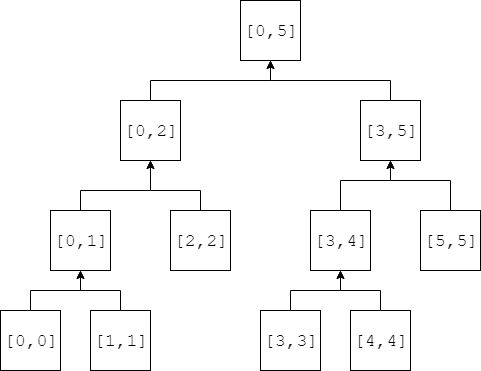
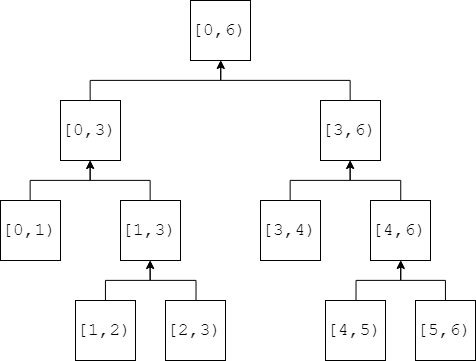
update datastructure docs, and rewrite source code

diff --git a/src/DataStructure/SegmentTree.cpp b/src/DataStructure/SegmentTree.cpp
@@ -1,74 +1,66 @@
 #include "SegmentTree.h"
-#include <algorithm>
-#include <assert.h>
-#ifndef MAX
-#define MAX 64
-#endif
+#include <cassert>
 
-static int SegmentTreeInitRec(SegNode *t, int root, int s[MAX], int start,
-                              int end) {
-  if (start == end) {
-    t->left[root] = start;
+#define left_child(x) (2 * (x) + 1)
+#define right_child(x) (2 * (x) + 2)
+#define father(x) (((x)-1) / 2)
+
+static int SegmentTreeNewRec(SegNode *t, int s[MAX], int root, int beg,
+                             int end) {
+  if (end == beg + 1) {
+    t->left[root] = beg;
     t->right[root] = end;
-    t->sum[root] = s[start];
+    t->sum[root] = s[beg];
     return t->sum[root];
   }
 
-  int mid = (start + end) / 2;
-  int left_sum = SegmentTreeInitRec(t, LEFT_CHILD(root), s, start, mid);
-  int right_sum = SegmentTreeInitRec(t, RIGHT_CHILD(root), s, mid + 1, end);
-  t->left[root] = start;
+  int mid = (beg + end) / 2;
+  t->left[root] = beg;
   t->right[root] = end;
-  t->sum[root] = left_sum + right_sum;
+  t->sum[root] = SegmentTreeNewRec(t, s, left_child(root), beg, mid) +
+                 SegmentTreeNewRec(t, s, right_child(root), mid, end);
   return t->sum[root];
 }
 
-static void SegmentTreeAddRec(SegNode *t, int root, int index, int v) {
-  if (t->left[root] > index || t->right[root] < index) {
+static void SegmentTreeModifyRec(SegNode *t, int root, int i, int v) {
+  if (t->left[root] > i || t->right[root] <= i) {
     return;
   }
 
-  assert(t->left[root] <= index);
-  assert(t->right[root] >= index);
+  assert(t->left[root] <= i);
+  assert(t->right[root] > i);
   t->sum[root] += v;
-
-  if (t->left[root] == t->right[root]) {
-    return;
-  }
-  SegmentTreeAddRec(t, LEFT_CHILD(root), index, v);
-  SegmentTreeAddRec(t, RIGHT_CHILD(root), index, v);
+  SegmentTreeModifyRec(t, left_child(root), i, v);
+  SegmentTreeModifyRec(t, right_child(root), i, v);
 }
 
-static int SegmentTreeQueryRec(SegNode *t, int root, int start, int end) {
+static int SegmentTreeQueryRec(SegNode *t, int root, int beg, int end) {
   int mid = (t->left[root] + t->right[root]) / 2;
-  if (t->left[root] >= start && t->right[root] <= end) {
+  if (t->left[root] == beg && t->right[root] == end) {
     return t->sum[root];
   } else if (end <= mid) {
-    return SegmentTreeQueryRec(t, LEFT_CHILD(root), start, end);
-  } else if (start >= mid + 1) {
-    return SegmentTreeQueryRec(t, RIGHT_CHILD(root), start, end);
+    return SegmentTreeQueryRec(t, left_child(root), beg, end);
+  } else if (beg >= mid) {
+    return SegmentTreeQueryRec(t, right_child(root), beg, end);
   } else {
-    return SegmentTreeQueryRec(t, LEFT_CHILD(root), start, mid) +
-           SegmentTreeQueryRec(t, RIGHT_CHILD(root), mid + 1, end);
+    return SegmentTreeQueryRec(t, left_child(root), beg, mid) +
+           SegmentTreeQueryRec(t, right_child(root), mid, end);
   }
 }
 
-SegNode *SegmentTreeNew(int s[MAX], int start, int end) {
+SegNode *SegmentTreeNew(int s[MAX], int beg, int end) {
   SegNode *t = new SegNode();
-  if (!t) {
-    return NULL;
-  }
-  SegmentTreeInitRec(t, 0, s, start, end);
+  SegmentTreeNewRec(t, s, 0, beg, end);
   return t;
 }
 
 void SegmentTreeFree(SegNode *t) { delete t; }
 
-void SegmentTreeAdd(SegNode *t, int index, int value) {
-  SegmentTreeAddRec(t, 0, index, value);
+void SegmentTreeModify(SegNode *t, int i, int value) {
+  SegmentTreeModifyRec(t, 0, i, value);
 }
 
-int SegmentTreeQuery(SegNode *t, int start, int end) {
-  return SegmentTreeQueryRec(t, 0, start, end);
+int SegmentTreeQuery(SegNode *t, int beg, int end) {
+  return SegmentTreeQueryRec(t, 0, beg, end);
 }
 

diff --git a/src/DataStructure/SegmentTreeTest.cpp b/src/DataStructure/SegmentTreeTest.cpp
@@ -1,32 +1,32 @@
 #include "SegmentTree.h"
-#include <assert.h>
+#include <cassert>
+#include <cstdlib>
 #include <iostream>
 using namespace std;
 
-#define TEST_MAX 1024
+#define TEST_MAX 128
 
 int main() {
-  int s[MAX];
-  for (int i = 0; i < MAX; i++) {
+  int s[TEST_MAX];
+  for (int i = 0; i < TEST_MAX; i++) {
     s[i] = i;
   }
-  for (int i = 0; i < MAX; i++) {
-    SegNode *t = SegmentTreeNew(s, 0, MAX - 1);
-    for (int j = 0; j < MAX; j++) {
-      int sum = 0;
-      SegmentTreeAdd(t, j, j);
-      for (int k = 0; k < MAX; k++) {
-        sum += k;
-        if (k < j) {
-          assert(SegmentTreeQuery(t, 0, k) == sum);
-        } else {
-          assert(SegmentTreeQuery(t, 0, k) == sum + j);
+  for (int i = 1; i < TEST_MAX; i++) {
+    SegNode *t = SegmentTreeNew(s, 0, i);
+    for (int j = 0; j < i; j++) {
+      int r = rand() % MAX;
+      SegmentTreeModify(t, j, r);
+      s[j] += r;
+      for (int p = 0; p <= i; p++) {
+        int sum = 0;
+        for (int q = 0; q < p; q++) {
+          sum += s[q];
         }
-      }
-      SegmentTreeAdd(t, j, -j);
-    }
+        assert(sum == SegmentTreeQuery(t, 0, p));
+      } // for
+    }   // for
     SegmentTreeFree(t);
-  }
+  } // for
 
   return 0;
 }

diff --git a/src/DataStructure/SegmentTree.h b/src/DataStructure/SegmentTree.h
@@ -1,30 +1,23 @@
 #pragma once
-
-#include <algorithm>
-#include <assert.h>
 #ifndef MAX
-#define MAX 64
+#define MAX 1024
 #endif
 
-#define LEFT_CHILD(x) (2 * (x) + 1)
-#define RIGHT_CHILD(x) (2 * (x) + 2)
-#define FATHER(x) (((x)-1) / 2)
-
 struct SegNode {
-  int left[MAX * 3];
-  int right[MAX * 3];
-  int sum[MAX * 3];
+  int left[MAX];
+  int right[MAX];
+  int sum[MAX];
 };
 
-// create segment tree
-SegNode *SegmentTreeNew(int s[MAX], int start, int end);
+// create s[beg, end)
+SegNode *SegmentTreeNew(int s[MAX], int beg, int end);
 
-// free segment tree
+// free s[beg, end)
 void SegmentTreeFree(SegNode *t);
 
-// add value to segment tree
-void SegmentTreeAdd(SegNode *t, int index, int value);
+// modify s[i] += value
+void SegmentTreeModify(SegNode *t, int i, int value);
 
-// query segment tree
-int SegmentTreeQuery(SegNode *t, int start, int end);
+// query s[beg, end)
+int SegmentTreeQuery(SegNode *t, int beg, int end);
 

diff --git a/docs/DataStructure/LeftistTree/README.md b/docs/DataStructure/LeftistTree/README.md
@@ -4,31 +4,27 @@
 
 --------
 
-#### 描述
+#### 左偏树
 
-左偏树是一种接近于堆的二叉树，它的根节点总是树中的最小值或最大值。与堆不同的是，两个堆的合并需要遍历被合并的堆中所有元素，依次插入另一个堆中，而左偏树可以支持更快速的合并操作。本问题只考虑根节点为最小值情况的左偏树。
+左偏树是一种类似小根堆的二叉树，它的根节点总是树中的最小值。与堆不同的是，合并两个数量为$$ n $$的堆的时间复杂度为$$ O(n \times log_2 n) $$，因为合并两个堆需要从其中一个取出元素加入另一个，重复$$ n $$次，每次取出/加入操作的时间复杂度为$$ O(log_2 n) $$。
 
-左偏树的主要操作有$$ (1) $$合并两个左偏树；$$ (2) $$插入新节点；$$ (3) $$查找最值；$$ (4) $$删除最值。其中$$ (2) - (4) $$的实现依赖于$$ (1) $$，合并操作是左偏树的核心。
+左偏树的主要操作有：$$ (1) $$合并两个左偏树；$$ (2) $$插入新节点；$$ (3) $$查找最值；$$ (4) $$删除最值。其中$$ (2) - (4) $$的实现依赖于$$ (1) $$，合并操作是左偏树的核心。
 
-定义左偏树中一个节点的距离$$ d $$，其值为该节点到最右下的叶子节点的距离。左偏树具有以下性质：
+左偏树中的节点的距离$$ d $$是该节点到最右下叶子节点的距离。左偏树具有以下性质：
 
-$$ (1) $$父节点键值小于等于其左右孩子节点的键值，$$ father \le father.leftChild $$且$$ father \le father.rightChild $$；
+$$ (1) $$父节点的值小于等于其左右孩子节点的值，即$$ value_{father} \leq value_{left}, value_{father} \leq value_{right} $$。最小的值在根节点类似小根堆的头节点；
 
-$$ (2) $$父节点的左孩子节点的距离大于等于右孩子节点的距离，$$ d_{father.leftChild} \ge d_{father.rightChild} $$；
+$$ (2) $$父节点的左孩子节点的距离大于等于右孩子节点的距离，即$$ d_{left} \geq d_{right} $$；
 
-$$ (3) $$父节点的距离等于其右孩子节点的距离加$$ 1 $$，$$ d_{father} = d_{father.rightChild} + 1 $$；
+$$ (3) $$父节点的距离等于其右孩子节点的距离加$$ 1 $$，即$$ d_{father} = d_{right} + 1 $$；
 
-$$ (4) $$具有$$ n $$个节点的左偏树的根节点的距离小于等于$$ log_2(n+1) - 1 $$，$$ d_{root} \le log_2(n+1) - 1 $$；
+$$ (4) $$具有$$ n $$个节点的左偏树的根节点的距离小于等于$$ log_2(n+1) - 1 $$，即$$ d_{root} \leq log_2(n+1) - 1 $$；
 
-下图中的每个节点中，上面的数字代表节点的下标号，下面的数字代表该节点的距离：
-
-![LeftistTree1.png](../res/LeftistTree1.png)
-
-合并两个左偏树的操作，可以简单的看作$$ (1) $$递归向下合并子树的根节点；$$ (2) $$递归向上更新所有被修改过的节点的距离。我们通过合并下面两个左偏树来进行演示：
+下图中每个节点上，上面的数字代表节点的值，下面的数字代表距离。合并两个左偏树的操作，分为两步：$$ (1) $$递归向下合并子树的根节点；$$ (2) $$递归向上更新所有被修改过的节点的距离。我们通过合并下面两个左偏树来进行演示：
 
 ![LeftistTree2.png](../res/LeftistTree2.png)
 
-$$ (1) $$比较两树根节点的值$$ 6 \lt 7 $$，节点$$ 7 $$沿着节点$$ 6 $$向右下寻找第$$ 1 $$个满足$$ 7 \lt x $$的节点$$ x $$，替换$$ x $$作为节点$$ 6 $$的新右孩子节点。该节点为节点$$ 8 $$（$$ 7 \lt 8 $$），节点$$ 6 $$的原右孩子节点$$ 8 $$暂时脱离；
+$$ (1) $$比较两树的根节点$$ 6 \lt 7 $$，节点$$ 7 $$沿着节点$$ 6 $$向右下寻找第$$ 1 $$个满足$$ 7 \lt x $$的节点$$ x $$，替换$$ x $$作为节点$$ 6 $$的新右孩子节点。该节点为节点$$ 8 $$（$$ 7 \lt 8 $$），节点$$ 6 $$的原右孩子节点$$ 8 $$暂时脱离；
 
 ![LeftistTree3.png](../res/LeftistTree3.png)
 
@@ -48,33 +44,33 @@ $$ (5) $$节点$$ 26 $$沿着节点$$ 13 $$向右下寻找第$$ 1 $$个满足$$ 
 
 ![LeftistTree7.png](../res/LeftistTree7.png)
 
-向右下插入节点的操作会影响到左偏树的平衡性，右子树变得越来越庞大。而且所有节点的距离也是错的（没有更新）。实际上每一步合并操作后还需要检查左右子树的距离属性：$$ (1) $$对于$$ d_{leftChild} \lt d_{rightChild} $$的情况，交换左右子树；$$ (2) $$对于$$ d_{root} \neq d_{rightChild} + 1 $$的情况，更新$$ d_{root} $$。
+向右下插入节点的操作会影响到左偏树的平衡性，右子树变得越来越庞大。而且所有节点的距离也是错的（没有更新）。实际上每一步合并操作后还需要检查左右子树的距离属性：$$ (1) $$对于$$ d_{left} \lt d_{right} $$的情况，交换左右子树；$$ (2) $$对于$$ d_{root} \neq d_{right} + 1 $$的情况，更新$$ d_{root} $$。
 
-节点距离的更新必须从叶子节点开始向上进行，对于之前步骤中修改过的节点，重新遍历计算其距离（其中空节点的距离认为$$ - 1 $$）：
+节点距离的更新必须从叶子节点开始向上进行，对于之前步骤中修改过的节点，重新遍历计算其距离（其中$$ d_{nil} = -1 $$）：
 
-$$ (6) $$对于节点$$ 26 $$，$$ d_{26.leftChild} = d_{27} = 0 \ge d_{26.rightChild} = {d_{nil}} = - 1 $$，不需要交换左右子树，$$ d_{26} = d_{26.rightChild} + 1 = d_{nil} + 1 = - 1 + 1 = 0 $$；
+$$ (6) $$ 对于节点$$ 26 $$，$$ d_{27} = 0 \ge d_{nil} = - 1 $$，不需要交换左右子树，更新$$ d_{26} = d_{nil} + 1 = - 1 + 1 = 0 $$；
 
 ![LeftistTree8.png](../res/LeftistTree8.png)
 
-$$ (7) $$对于节点$$ 13 $$，$$ d_{13.leftChild} = d_{28} = 0 \ge d_{13.rightChild} = d_{26} = 0 $$，不需要交换左右子树，$$ d_{13} = d_{13.rightChild} + 1 = d_{26} + 1 = 0 + 1 = 1 $$；
+$$ (7) $$ 对于节点$$ 13 $$，$$ d_{28} = 0 \ge d_{26} = 0 $$，不需要交换左右子树，更新$$ d_{13} = d_{26} + 1 = 0 + 1 = 1 $$；
 
 ![LeftistTree9.png](../res/LeftistTree9.png)
 
-$$ (8) $$对于节点$$ 12 $$，$$ d_{12.leftChild} = d_{31} = 1 \ge d_{13.rightChild} = d_{26} = 1 $$，不需要交换左右子树，$$ d_{12} = d_{12.rightChild} + 1 = d_{13} + 1 = 1 + 1 = 2 $$；
+$$ (8) $$ 对于节点$$ 12 $$，$$ d_{31} = 1 \ge d_{26} = 1 $$，不需要交换左右子树，更新$$ d_{12} = d_{13} + 1 = 1 + 1 = 2 $$；
 
 ![LeftistTree10.png](../res/LeftistTree10.png)
 
-$$ (9) $$对于节点$$ 8 $$，$$ d_{8.leftChild} = d_{10} = 1 \lt d_{8.rightChild} = d_{12} = 2 $$，需要交换子树$$ 10 $$和子树$$ 12 $$，$$ d_{8} = d_{8.rightChild} + 1 = d_{10} + 1 = 1 + 1 = 2 $$；
+$$ (9) $$ 对于节点$$ 8 $$，$$ d_{10} = 1 \lt d_{12} = 2 $$，需要交换子树$$ 10 $$和子树$$ 12 $$，更新$$ d_{8} = d_{10} + 1 = 1 + 1 = 2 $$；
 
 ![LeftistTree11.png](../res/LeftistTree11.png)
 
-$$ (10) $$对于节点$$ 7 $$，$$ d_{7.leftChild} = d_{9} = 1 \lt d_{7.rightChild} = d_{8} = 2 $$，需要交换子树$$ 9 $$和子树$$ 8 $$，$$ d_{7} = d_{7.rightChild} + 1 = d_{9} + 1 = 1 + 1 = 2 $$；
+$$ (10) $$ 对于节点$$ 7 $$，$$ d_{9} = 1 \lt d_{8} = 2 $$，需要交换子树$$ 9 $$和子树$$ 8 $$，更新$$ d_{7} = d_{9} + 1 = 1 + 1 = 2 $$；
 
 ![LeftistTree12.png](../res/LeftistTree12.png)
 
-$$ (11) $$对于节点$$ 6 $$，$$ d_{6.leftChild} = d_{11} = 2 \ge d_{6.rightChild} = d_{7} = 2 $$，不需要交换左右子树，$$ d_{6} = d_{6.rightChild} + 1 = d_{7} + 1 = 2 + 1 = 3 $$；
+$$ (11) $$对于节点$$ 6 $$，$$ d_{11} = 2 \ge d_{7} = 2 $$，不需要交换左右子树，更新$$ d_{6} = d_{7} + 1 = 2 + 1 = 3 $$；
 
-实际编码时可以通过递归的方式将合并子树和更新距离两个操作放在同一个函数中，合并函数Merge返回合并后左偏树的根节点的距离$$ d $$，在Merge中调用左右孩子的合并操作，获取左右孩子的距离，然后再决定是否交换左右子树，并更新父节点的距离。本文的将两个步骤分开是为了方便理解算法。
+编码时通过递归的方式将合并和更新距离两个操作放在同一个递归函数中，合并函数Merge返回合并后左偏树的根节点的距离$$ d $$，在Merge中调用左右孩子的合并操作，获取左右孩子的距离，然后再决定是否交换左右子树，并更新父节点的距离。本文的将两个步骤分开是为了方便理解算法。
 
 左偏树的插入操作，可以看作左偏树与一个只有根节点的左偏树的合并操作；删除最值的操作，可以看作删除根节点后，合并左右子树的操作。
 

diff --git a/docs/DataStructure/SegmentTree/README.md b/docs/DataStructure/SegmentTree/README.md
@@ -4,23 +4,33 @@
 
 --------
 
-#### 描述
+#### 线段树
 
-线段树是一种二叉树，它将长度为$$ n $$的数组$$ s[0,n - 1] $$划分成区间，树中的每个节点$$ [i,j] $$（$$ 0 \leq i \leq j \lt n $$）表示范围$$ s[i,j] $$上被关注的内容，例如该区间所有元素的和、最小元素的值、最大元素的值、第$$ k $$大的值等。本问题关注范围$$ s[i,j] $$上所有元素之和。
+给定一段区间上的数字$$ s = [x_{0}, x_{2}, \dots, x_{n-1}] $$，求出$$ [p, q) $$这个区间上的所有数字之和（$$ 0 \leq p \leq q \lt n $$）。该区间上的任意数字都可以删除、修改，也可以在该区间上新增数字。
 
-在本节中我们计算该区域上所有元素的和，即节点$$ [i,j] $$代表数组$$ s[i,j] $$的和。其左子树表示$$ s[i, \frac{i + j}{2}] $$的和，右子树表示区域$$ s[ \frac{i + j}{2} + 1,j] $$的和。叶子节点$$ [i,i] $$（其中$$ 0 \leq i \leq n - 1 $$）表示的区域长度为$$ 1 $$。
+循环累加数组的算法可以在$$ O(1) $$时间复杂度内修改某个数字，$$ O(n) $$时间复杂度内算出$$ [p, q) $$区间上所有元素之和，$$ O(n) $$时间复杂度内新增/删除区间上某个数字（移动其他占位置的数字需要$$ O(n) $$）。而线段树可以做到修改区间、累加区间的时间复杂度都为$$ O(log_{2} n) $$。
 
-线段树$$ s[0,5] $$如下图所示：
+线段树是一种二叉树，它将数组$$ s = [x_{0}, x_{1}, \dots, x_{n-1}] $$划分区间，线段树中节点$$ [p,q) $$表示范围$$ s[p,q) $$上被关注的内容，例如该区间上所有元素的和、最大/最小元素的值、第$$ k $$大的值等。本问题关注区间$$ s[p,q) $$上的元素之和。
+
+节点$$ [p,q) $$代表数组$$ s[p,q) $$上所有元素之和。左子树为$$ s[p, \frac{p + q}{2}) $$上元素之和，右子树为$$ s[\frac{p + q}{2}, q) $$上元素之和。线段树的叶子节点是长度为$$ 1 $$的区域$$ [p,p+1) $$。数组$$ s = [0, 1, 2, 3, 4, 5] $$如图所示：
 
 ![SegmentTree1.png](../res/SegmentTree1.png)
 
-构造操作：从根节点开始，递归的将节点$$ [i,j] $$拆分为$$ [i, \frac{i+j}{2}] $$和$$ [ \frac{i+j}{2}+1,j] $$（其中$$ 0 \leq i \leq j \lt n $$），父节点所代表的区域和等于左右孩子节点代表的区域和之和，即$$ sum[i,j] = sum[i, \frac{i + j}{2}] + sum[ \frac{i + j}{2} + 1,j] $$，重复该操作直到叶子节点为止。该操作的时间复杂度为$$ O(n) $$。
+构造操作：从根节点开始，递归的将节点$$ [p,q) $$拆分为$$ [p, \frac{p+q}{2}) $$和$$ [ \frac{p+q}{2},q) $$，则显然$$ \sum_{i=p}^{q-1} s_{i} = \sum_{i=p}^{\frac{p+q}{2}} s_{i} + \sum_{i = \frac{p+q}{2}}^{q-1} s_{i} $$，即父节点的值等于左右孩子节点值的和，我们将区域$$ s[p,q) $$上所有元素之和记录在线段树的节点$$ [p,q) $$上。像这样递归的分解左右孩子，直到叶子节点为止。构造操作的时间复杂度为$$ O(n) $$。
 
-单点更新操作：修改数组$$ s $$中任意一个值$$ s[i] $$（其中$$ 0 \leq i \leq n-1 $$），则包括该值的所有节点，从叶子节点一直到它的所有根节点和祖先节点，都需要修改。该操作的时间复杂度为$$ O(log_2n) $$。
+更新操作：修改区间$$ s $$中任意一个值$$ s[i] $$需要修改从叶子节点$$ [i, i+1) $$到根节点$$ [p,q) $$这一分支上的所有节点，因为它们上所存储的信息都会受到影响。更新操作的时间复杂度为$$ O(log_2n) $$。
 
-查询操作：从根节点向下依次查询所有子节点，若节点属于被查询的区域则直接返回；若节点中只有一部分区域匹配则继续查询其左右子节点。最终将所有匹配到的区域的和加起来即为查询区域的和。该操作的时间复杂度为$$ O(log_2n) $$。
+查询操作：查询区间$$ s[i,j) $$上所有元素之和，需要递归的从根节点向下匹配。对于节点$$ [p, q) $$有以下四种情况：
 
-实际编代码的时候，对于长度为$$ n $$的数组$$ s[0,n-1] $$，为了方便我们用数组$$ t $$来表示二叉树（而不是真的写一个拥有两个指针的结构体），下标为$$ i $$的左孩子节点下标为$$ 2i+1 $$，右孩子节点下标为$$ 2i+2 $$。$$ t[0] $$为二叉树的根节点，代表$$ s[0,n-1] $$区域的和；其左孩子为$$ t[1] $$，表示$$ s[0, \frac{n}{2}] $$区域之和；右孩子为$$ t[2] $$，表示$$ s[ \frac{n}{2}+1,n-1] $$区域之和；以此类推。
+$$ (1) $$ 若$$ [p,q) = [i,j) $$则该节点上的值即为所求，算法结束；
+
+$$ (2) $$ 若$$ j \leq \frac{p+q}{2} $$说明$$ [i,j) $$只属于其左孩子；
+
+$$ (3) $$ 若$$ i \geq \frac{p+q}{2} $$说明$$ [i,j) $$只属于其右孩子；
+
+$$ (4) $$ 若$$ i \lt \frac{p+q}{2}, j \gt \frac{p+q}{2} $$说明$$ [i, j) $$中一部分属于左孩子，另一部分属于右孩子，这时将$$ [i,j) $$拆分为两部分$$ [i, \frac{p+q}{2}) $$和$$ [\frac{p+q}{2}, j) $$，分别匹配自己所属的区域；
+
+实际编码时用数组$$ t $$来表示二叉树（也可以真的写一个二叉树），节点$$ i $$的左孩子为$$ 2i+1 $$，右孩子为$$ 2i+2 $$。$$ t[0] $$为二叉树根节点，代表$$ s[0,n) $$区域上所有元素之和，左孩子$$ t[1] $$表示$$ s[0, \frac{n}{2}) $$区域之和，右孩子$$ t[2] $$表示$$ s[\frac{n}{2}, n) $$区域之和，以此类推。
 
 --------
 

diff --git a/SUMMARY.md b/SUMMARY.md
@@ -17,10 +17,10 @@
     * [DancingLink 舞蹈链](docs/Search/DancingLink/README.md)
 * [Chapter-3 DataStructure 第3章 数据结构](docs/DataStructure/README.md)
     * [DisjointSet 并查集](docs/DataStructure/DisjointSet/README.md)
-    * [FenwickTree(BinaryIndexTree) 树状数组](docs/DataStructure/FenwickTree/README.md)
     * [SegmentTree 线段树](docs/DataStructure/SegmentTree/README.md)
     * [LeftistTree(LeftistHeap) 左偏树（左偏堆）](docs/DataStructure/LeftistTree/README.md)
     * [PrefixTree(TrieTree) 前缀树](docs/DataStructure/PrefixTree/README.md)
+    * [FenwickTree(BinaryIndexTree) 树状数组](docs/DataStructure/FenwickTree/README.md)
     * [AVLTree AVL平衡树](docs/DataStructure/AVLTree/README.md)
     * [RedBlackTree 红黑树](docs/DataStructure/RedBlackTree/README.md)
 * [Chapter-4 DynamicProgramming 第4章 动态规划](docs/DynamicProgramming/README.md)

diff --git a/docs/DataStructure/README.md b/docs/DataStructure/README.md
@@ -6,9 +6,9 @@
 --------
 
 1. [DisjointSet 并查集](DisjointSet/README.md)
-2. [FenwickTree(BinaryIndexTree) 树状数组](FenwickTree/README.md)
-3. [SegmentTree 线段树](SegmentTree/README.md)
-4. [LeftistTree(LeftistHeap) 左偏树（左偏堆）](LeftistTree/README.md)
-5. [PrefixTree(TrieTree) 前缀树](PrefixTree/README.md)
-7. [AVLTree AVL平衡树](AVLTree/README.md)
-8. [RedBlackTree 红黑树](RedBlackTree/README.md)
+2. [SegmentTree 线段树](SegmentTree/README.md)
+3. [LeftistTree(LeftistHeap) 左偏树（左偏堆）](LeftistTree/README.md)
+4. [PrefixTree(TrieTree) 前缀树](PrefixTree/README.md)
+5. [FenwickTree(BinaryIndexTree) 树状数组](FenwickTree/README.md)
+6. [AVLTree AVL平衡树](AVLTree/README.md)
+7. [RedBlackTree 红黑树](RedBlackTree/README.md)

diff --git a/docs/README.md b/docs/README.md
@@ -17,10 +17,10 @@
     * [DancingLink 舞蹈链](Search/DancingLink/)
 * [Chapter-3 DataStructure 第3章 数据结构](DataStructure/)
     * [DisjointSet 并查集](DataStructure/DisjointSet/)
-    * [FenwickTree(BinaryIndexTree) 树状数组](DataStructure/FenwickTree/)
     * [SegmentTree 线段树](DataStructure/SegmentTree/)
     * [LeftistTree(LeftistHeap) 左偏树（左偏堆）](DataStructure/LeftistTree/)
     * [PrefixTree(TrieTree) 前缀树](DataStructure/PrefixTree/)
+    * [FenwickTree(BinaryIndexTree) 树状数组](DataStructure/FenwickTree/)
     * [AVLTree AVL平衡树](DataStructure/AVLTree/)
     * [RedBlackTree 红黑树](DataStructure/RedBlackTree/)
 * [Chapter-4 DynamicProgramming 第4章 动态规划](DynamicProgramming/)
